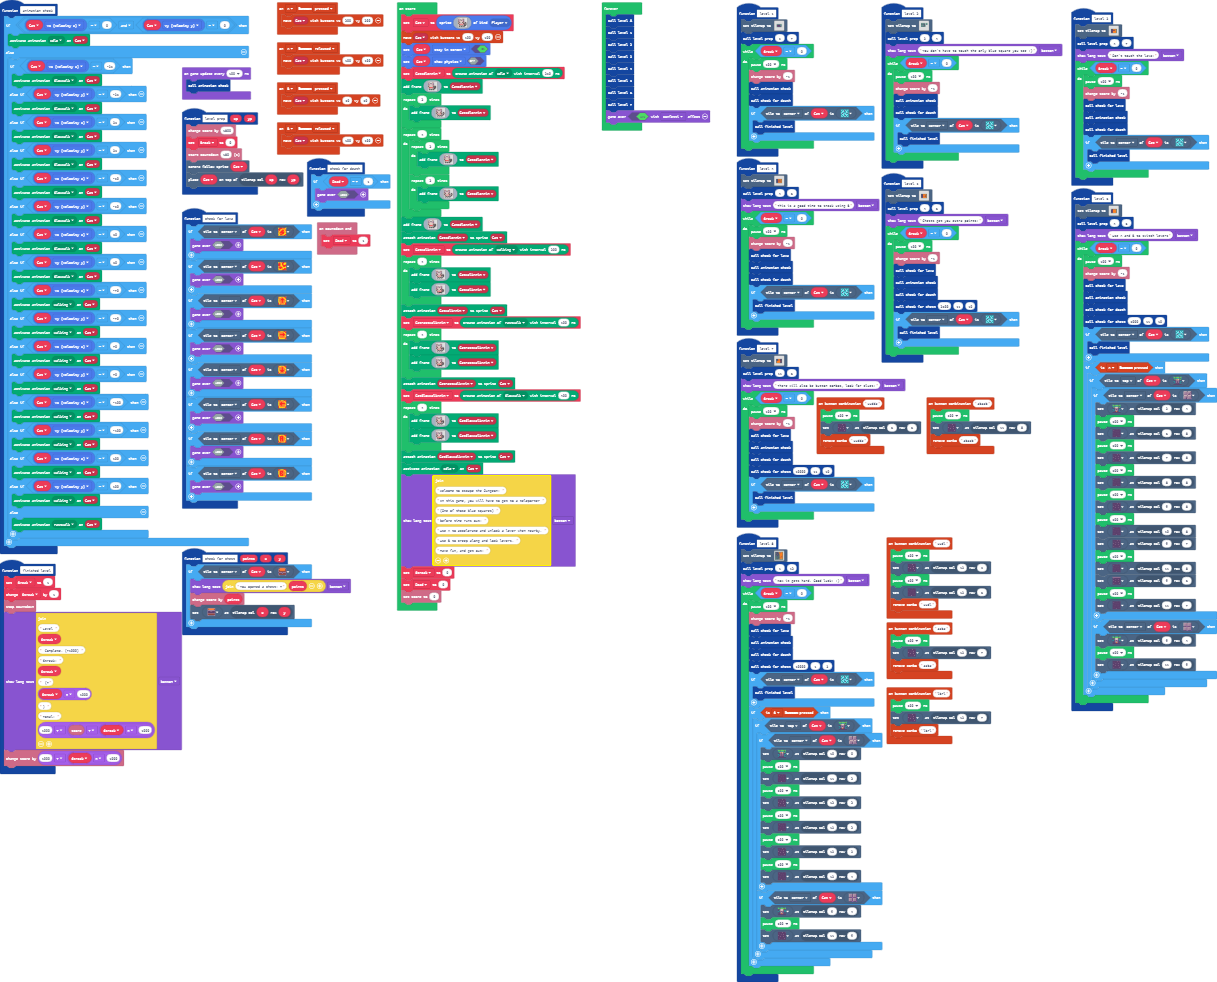
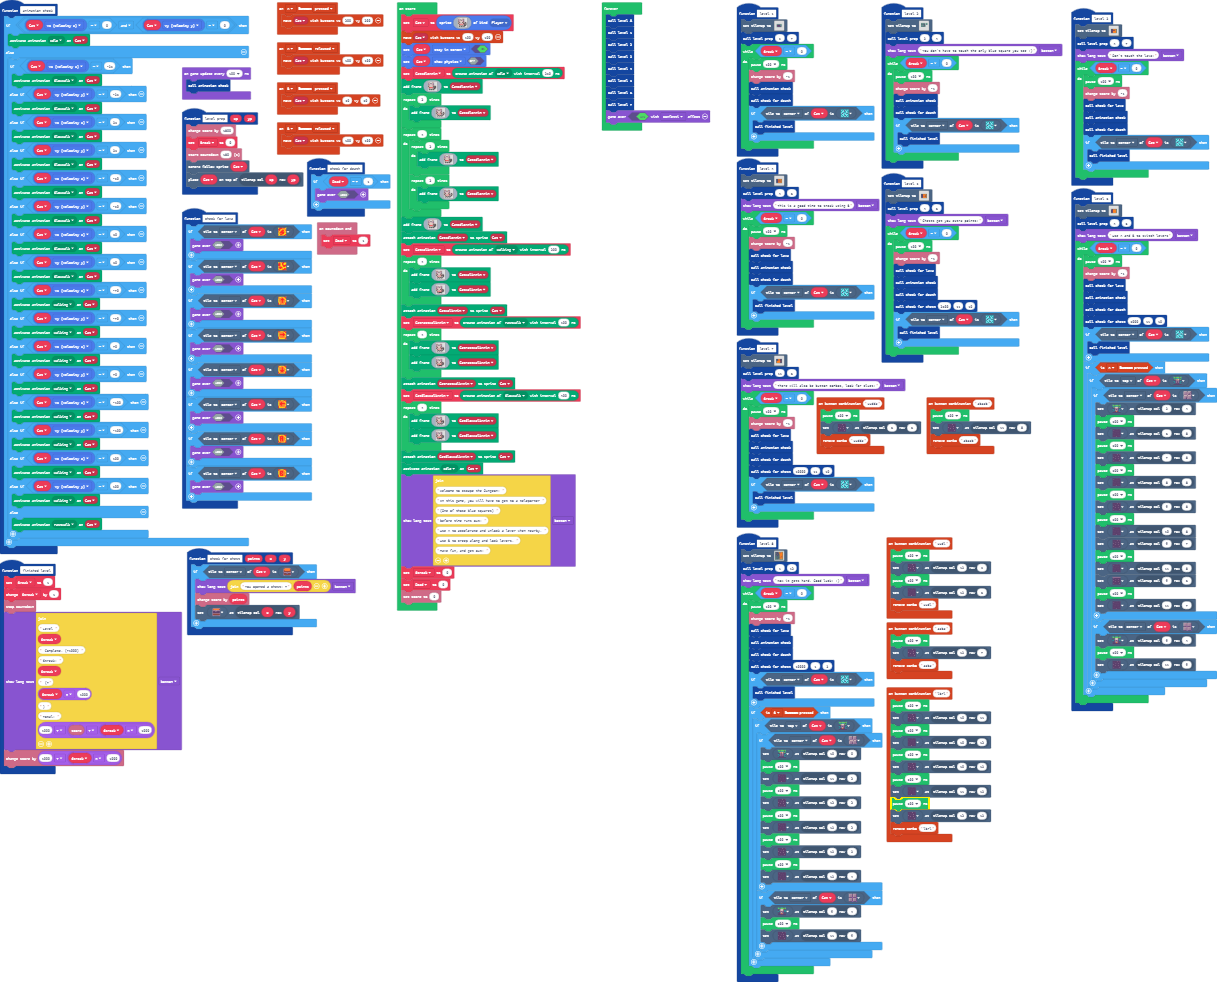
Update main.blocks, main.ts

Changed region(s): [[0.1249, 0.5499, 0.281, 0.6415], [0.7182, 0.7332, 0.8118, 0.8554]]

diff --git a/main.ts b/main.ts
@@ -366,7 +366,15 @@ controller.B.onEvent(ControllerButtonEvent.Released, function () {
 })
 controller.combos.attachCombo("lbrl", function () {
     pause(500)
-    tiles.setTileAt(tiles.getTileLocation(13, 7), sprites.dungeon.darkGroundCenter)
+    tiles.setTileAt(tiles.getTileLocation(10, 11), sprites.dungeon.darkGroundCenter)
+    pause(500)
+    tiles.setTileAt(tiles.getTileLocation(10, 12), sprites.dungeon.darkGroundCenter)
+    pause(500)
+    tiles.setTileAt(tiles.getTileLocation(10, 13), sprites.dungeon.darkGroundCenter)
+    pause(500)
+    tiles.setTileAt(tiles.getTileLocation(11, 13), sprites.dungeon.darkGroundCenter)
+    pause(500)
+    tiles.setTileAt(tiles.getTileLocation(12, 13), sprites.dungeon.darkGroundCenter)
     controller.combos.detachCombo("lbrl")
 })
 function level_6 () {
